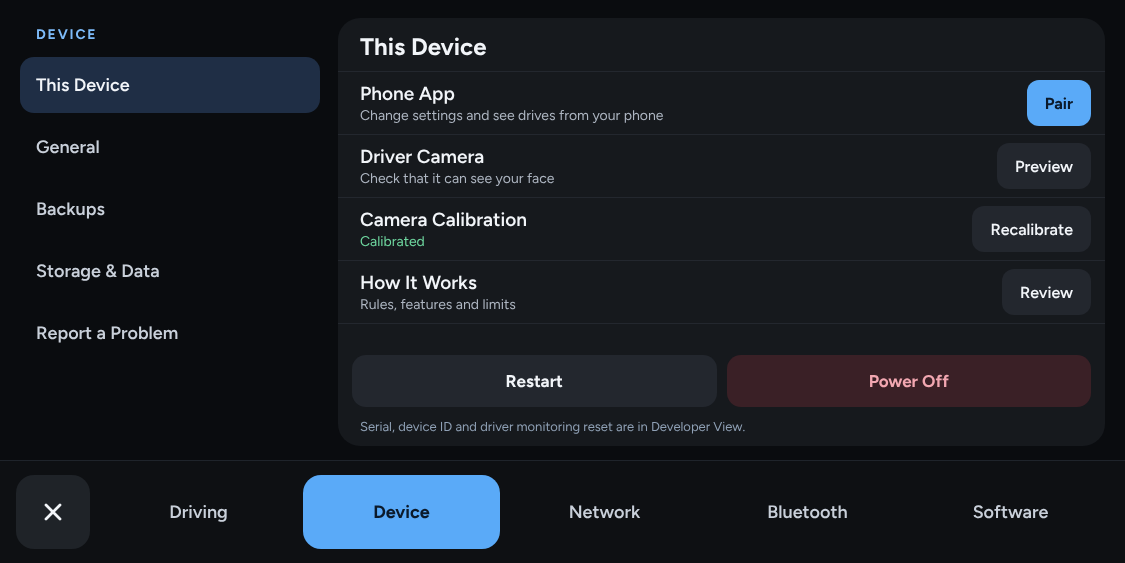
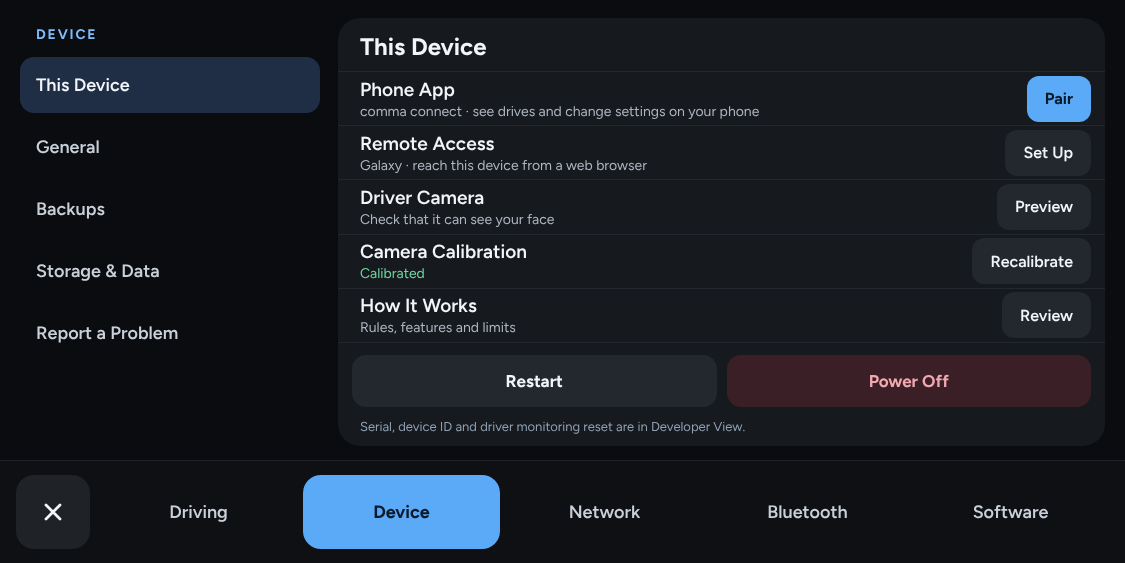
Essentials: phone app and remote access rows side by side
Remote Access moves up from More to sit under Phone App on This Device, and
each subtitle names its service (comma connect, Galaxy) and turns green once
set up. Device tab mock updated.

Claude-Session: https://claude.ai/code/session_01R4pPc2hcx88Dbjjec1p8WC

diff --git a/selfdrive/ui/tandem/design/devicetab.html b/selfdrive/ui/tandem/design/devicetab.html
@@ -27,8 +27,12 @@ a{color:#7DBBF9}a:hover{color:#A9D3FB}
     <div style="flex-grow: 1; min-width: 0; background: #16191D; border-radius: 22px; display: flex; flex-direction: column; overflow: hidden;">
       <div style="padding: 14px 22px 10px; border-bottom: 1px solid #23272E;"><h2 style="margin: 0; font-size: 24px; font-weight: 700;">This Device</h2></div>
       <div style="display: flex; align-items: center; gap: 16px; padding: 0 14px 0 22px; height: 62px; border-bottom: 1px solid #23272E;">
-        <div style="flex-grow: 1; display: flex; flex-direction: column; gap: 2px;"><span style="font-size: 19px; font-weight: 600;">Phone App</span><span style="font-size: 14px; color: #AEB6C2;">Change settings and see drives from your phone</span></div>
+        <div style="flex-grow: 1; display: flex; flex-direction: column; gap: 2px;"><span style="font-size: 19px; font-weight: 600;">Phone App</span><span style="font-size: 14px; color: #AEB6C2;">comma connect · see drives and change settings on your phone</span></div>
         <button type="button" style="font-family: inherit; height: 46px; padding: 0 18px; border: 0; border-radius: 12px; background: #5AAAF8; color: #0B1A2B; font-size: 16px; font-weight: 700;">Pair</button>
+      </div>
+      <div style="display: flex; align-items: center; gap: 16px; padding: 0 14px 0 22px; height: 62px; border-bottom: 1px solid #23272E;">
+        <div style="flex-grow: 1; display: flex; flex-direction: column; gap: 2px;"><span style="font-size: 19px; font-weight: 600;">Remote Access</span><span style="font-size: 14px; color: #AEB6C2;">Galaxy · reach this device from a web browser</span></div>
+        <button type="button" style="font-family: inherit; height: 46px; padding: 0 18px; border: 0; border-radius: 12px; background: #23272E; color: #F2F5F9; font-size: 16px; font-weight: 600;">Set Up</button>
       </div>
       <div style="display: flex; align-items: center; gap: 16px; padding: 0 14px 0 22px; height: 62px; border-bottom: 1px solid #23272E;">
         <div style="flex-grow: 1; display: flex; flex-direction: column; gap: 2px;"><span style="font-size: 19px; font-weight: 600;">Driver Camera</span><span style="font-size: 14px; color: #AEB6C2;">Check that it can see your face</span></div>

diff --git a/selfdrive/ui/tandem/settings/device.py b/selfdrive/ui/tandem/settings/device.py
@@ -69,16 +69,18 @@ class ThisDevicePanel(ListPanel):
     power_off.set_visible(device.is_offroad)
 
     super().__init__([
-      SettingRow("Phone App", lambda: "Paired" if device.is_paired() else "Change settings and see drives from your phone", pair,
-                 subtitle_color=lambda: T.SUCCESS_TEXT if device.is_paired() else T.TEXT_TERTIARY),
+      # The two ways to reach the car from elsewhere sit together, each naming its service.
+      SettingRow("Phone App", lambda: "comma connect · Paired" if device.is_paired() else "comma connect · see drives and change settings on your phone",
+                 pair, subtitle_color=lambda: T.SUCCESS_TEXT if device.is_paired() else T.TEXT_TERTIARY),
+      SettingRow("Remote Access", lambda: "Galaxy · Set up" if device.remote_access_link() else "Galaxy · reach this device from a web browser",
+                 Button(device.remote_access_label, open_remote_access or device.remote_access),
+                 subtitle_color=lambda: T.SUCCESS_TEXT if device.remote_access_link() else T.TEXT_TERTIARY),
       SettingRow("Driver Camera", "Check that it can see your face. The car must be off.",
                  action("Preview", device.driver_camera, offroad_only=True)),
       SettingRow("Camera Calibration", device.calibration, action("Recalibrate", device.recalibrate),
                  subtitle_color=lambda: T.SUCCESS_TEXT if device.calibration() == Calibration.CALIBRATED else T.TEXT_TERTIARY),
       SettingRow("How It Works", "Rules, features and limits", action("Review", device.review_guide, offroad_only=True)),
       SectionHeader("MORE"),
-      SettingRow("Remote Access", "Reach this device from the Galaxy web app",
-                 Button(device.remote_access_label, open_remote_access or device.remote_access)),
       SettingRow("Driver Monitoring", "Forget which side of the car the driver sits on",
                  action("Reset", device.reset_driver_monitoring, offroad_only=True)),
       SettingRow("Language", None, action("Change", device.change_language)),
